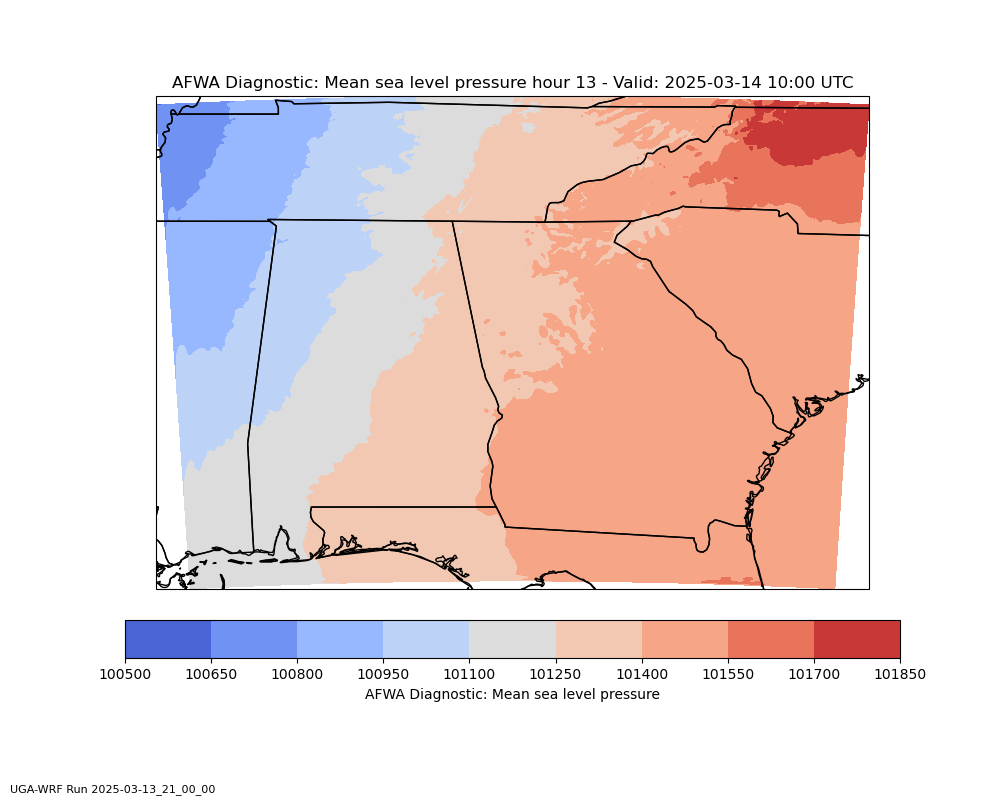
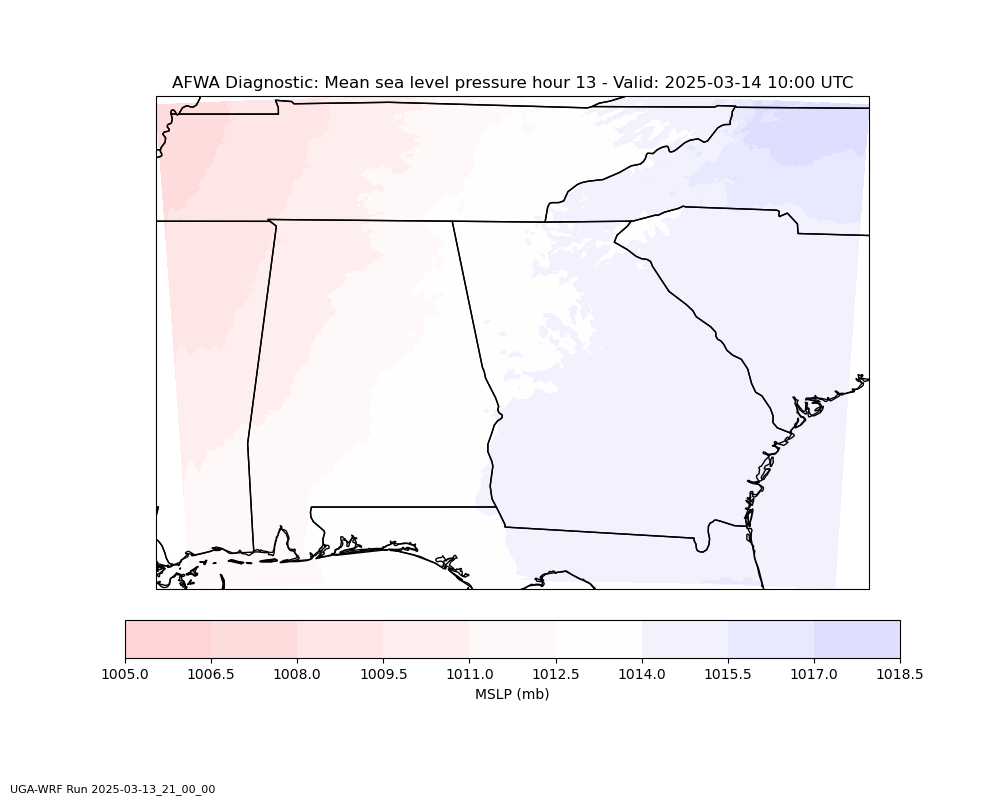
make MSLP colors more Better

diff --git a/image/ugawrf.py b/image/ugawrf.py
@@ -1,5 +1,6 @@
 import os
 import matplotlib.pyplot as plt
+from matplotlib import colors
 from netCDF4 import Dataset
 from wrf import getvar, to_np, latlon_coords, extract_times
 import cartopy.crs as ccrs
@@ -52,10 +53,15 @@ def plot_variable(data, timestep, output_path):
     elif data.name == 'SNOWNC':
         contour = plt.contourf(to_np(lons), to_np(lats), to_np(data), cmap='BuPu')
         label = f"Accumulated Snowfall"
+    elif data.name == 'AFWA_MSLP':
+        data_copy = data.copy()
+        data_copy = data_copy / 100
+        divnorm = colors.TwoSlopeNorm(vmin=970, vcenter=1013, vmax=1050)
+        contour = plt.contourf(to_np(lons), to_np(lats), to_np(data_copy), cmap='bwr_r', norm=divnorm)
+        label = f"MSLP (mb)"
     else:
         contour = plt.contourf(to_np(lons), to_np(lats), to_np(data), cmap='coolwarm')
         label = f"{data.description}"
-
     plt.colorbar(contour, ax=ax, orientation='horizontal', pad=0.05, label=label)
     ax.coastlines()
     ax.add_feature(cfeature.BORDERS, linewidth=0.5)
